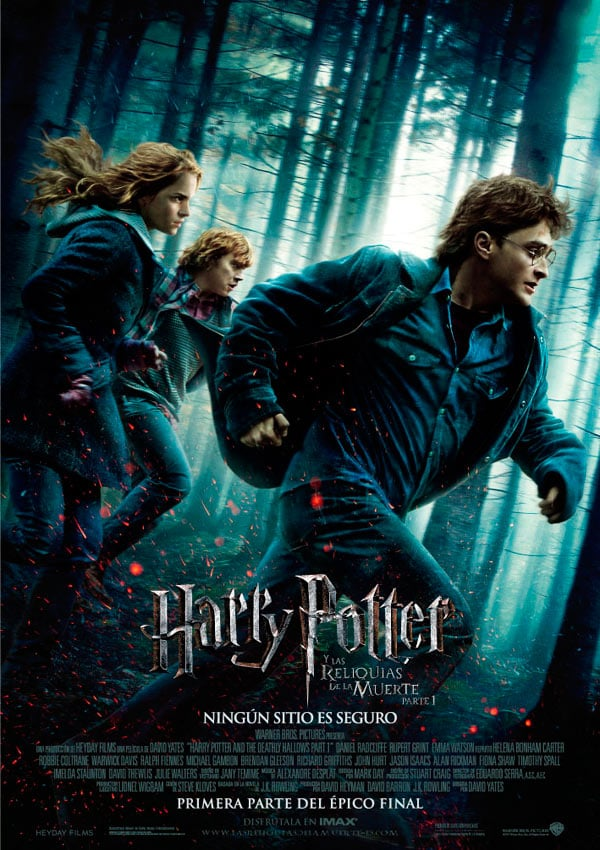
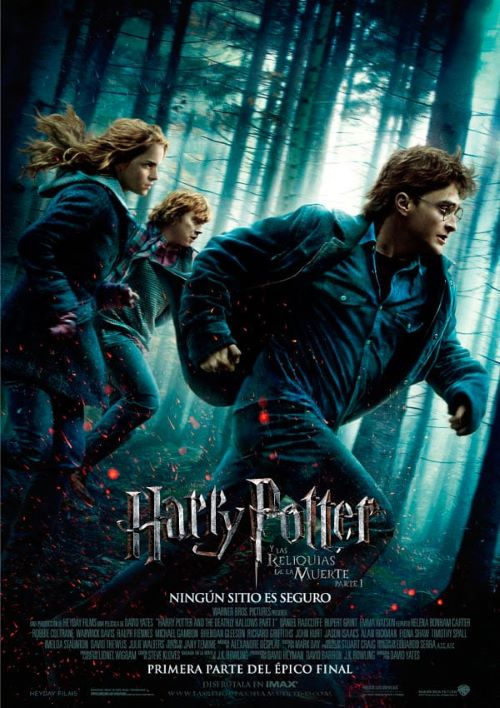
agregue SEO, corregi el tamaño de las imagenes y cambie de carpeta algunos archivos

diff --git a/pages/peliculas.html b/pages/peliculas.html
@@ -16,7 +16,7 @@
 <body>
     <header id="arriba">
         <h1>BIENVENIDOS A LA PÁGINA DE FANS DE HARRY POTTER</h1>
-        <audio class="m-3" src="../FOTOS/cancion.mp3" controls>canción</audio>
+        <audio class="m-3" src="../audio/cancion.mp3" controls>canción</audio>
         <nav class="navbar navbar-expand-lg text-center menu">
             <div class="container-fluid">
               <button class="navbar-toggler" type="button" data-bs-toggle="collapse" data-bs-target="#navbarNav" aria-controls="navbarNav" aria-expanded="false" aria-label="Toggle navigation">
@@ -56,19 +56,19 @@
                 <p>Duración: 152 minutos. Versión extendida: 159 minutos.</p>
             </div>
             <div class="pelicula2" data-aos="flip-down">
-                <img src="../FOTOS/pelicula2.webp" alt="pelicula2" class="pelicula"> 
+                <img src="../FOTOS/pelicula2.jpg" alt="pelicula2" class="pelicula"> 
                 <h2 class="my-4 border-bottom border-dark">HARRY POTTER Y LA CÁMARA SECRETA</h2>
                 <P>Año de estreno: 2002.</P>
                 <p>Duración: aproximadamente 164 minutos. Versión extendida: 174 minutos.</p>
             </div>
             <div class="pelicula3" data-aos="flip-right">
-                <img src="../FOTOS/pelicula3.webp" alt="pelicula3" class="pelicula">
+                <img src="../FOTOS/pelicula3.jpg" alt="pelicula3" class="pelicula">
                 <h2 class="my-4 border-bottom border-dark">HARRY POTTER Y EL PRISIONERO DE AZKABAN</h2>
                 <P>Año de estreno: 2004.</P>
                 <p>Duración: 141 minutos.</p> 
             </div>
             <div class="pelicula4" data-aos="flip-left">
-                <img src="../FOTOS/pelicula4.webp" alt="pelicula4" class="pelicula">
+                <img src="../FOTOS/pelicula4.jpg" alt="pelicula4" class="pelicula">
                 <h2 class="my-4 border-bottom border-dark">HARRY POTTER Y EL CALÍZ DE FUEGO</h2>
                 <p>Año de estreno: 2005.</p>
                 <p>Duración: 157 minutos.</p>
@@ -118,8 +118,10 @@
           </div>
     </main>
     <footer>
-        <a href="https://www.instagram.com/" target="_blank"><img src="../FOTOS/instagram.png" alt="instagram" class="redes"></a>
-        <a href="https://www.facebook.com/" target="_blank"><img src="../FOTOS/facebook.png" alt="facebook" class="redes"></a>
+      <div class="redes">
+        <a href="https://www.instagram.com/" target="_blank"><img src="../FOTOS/instagram.png" alt="instagram"></a>
+        <a href="https://www.facebook.com/" target="_blank"><img src="../FOTOS/facebook.png" alt="facebook"></a>
+      </div>
         <h3>
         <a href="#arriba">Subir</a>
         </h3>   

diff --git a/pages/videojuegos.html b/pages/videojuegos.html
@@ -16,7 +16,7 @@
 <body>
     <header id="arriba">
         <h1>BIENVENIDOS A LA PÁGINA DE FANS DE HARRY POTTER</h1>
-        <audio class="m-3" src="../FOTOS/cancion.mp3" controls>canción</audio>
+        <audio class="m-3" src="../audio/cancion.mp3" controls>canción</audio>
         <nav class="navbar navbar-expand-lg text-center menu">
             <div class="container-fluid">
               <button class="navbar-toggler" type="button" data-bs-toggle="collapse" data-bs-target="#navbarNav" aria-controls="navbarNav" aria-expanded="false" aria-label="Toggle navigation">
@@ -172,8 +172,10 @@
         </div>
     </main>
     <footer>
-      <a href="https://www.instagram.com/" target="_blank"><img src="../FOTOS/instagram.png" alt="instagram" class="redes"></a>
-      <a href="https://www.facebook.com/" target="_blank"><img src="../FOTOS/facebook.png" alt="facebook" class="redes"></a>
+      <div class="redes">
+        <a href="https://www.instagram.com/" target="_blank"><img src="../FOTOS/instagram.png" alt="instagram"></a>
+        <a href="https://www.facebook.com/" target="_blank"><img src="../FOTOS/facebook.png" alt="facebook"></a>
+      </div>
         <h3>
           <a href="https://vandal.elespanol.com/sagas/harry-potter" target="_blank">Fuente</a>
         </h3>

diff --git a/index.html b/index.html
@@ -15,7 +15,7 @@
 <body>
     <header id="arriba">
         <h1 class="titulo">BINVENIDOS A LA PÁGINA DE FANS DE HARRY POTTER</h1>
-        <audio class="m-3" src="./FOTOS/cancion.mp3" controls>canción</audio>
+        <audio class="m-3" src="./audio/cancion.mp3" controls>canción</audio>
         <nav class="navbar navbar-expand-lg text-center menu">
             <div class="container-fluid">
               <button class="navbar-toggler" type="button" data-bs-toggle="collapse" data-bs-target="#navbarNav" aria-controls="navbarNav" aria-expanded="false" aria-label="Toggle navigation">
@@ -71,8 +71,10 @@
           </div>
     </main>
     <footer>
-        <a href="https://www.instagram.com/" target="_blank"><img src="./FOTOS/instagram.png" alt="instagram" class="redes"></a>
-        <a href="https://www.facebook.com/" target="_blank"><img src="./FOTOS/facebook.png" alt="facebook" class="redes"></a>
+      <div class="redes">
+        <a href="https://www.instagram.com/" target="_blank"><img src="./FOTOS/instagram.png" alt="instagram"></a>
+        <a href="https://www.facebook.com/" target="_blank"><img src="./FOTOS/facebook.png" alt="facebook"></a>
+      </div>
         <h3 class="subir">
             <a href="#arriba">Subir</a>
         </h3>

diff --git a/pages/escenas.html b/pages/escenas.html
@@ -16,7 +16,7 @@
 <body>
 <header id="arriba">
     <h1>BIENVENIDOS A LA PÁGINA DE FANS DE HARRY POTTER</h1>
-    <audio class="m-3" src="../FOTOS/cancion.mp3" controls>cancion</audio>
+    <audio class="m-3" src="../audio/cancion.mp3" controls>cancion</audio>
     <nav class="navbar navbar-expand-lg text-center menu">
         <div class="container-fluid">
           <button class="navbar-toggler" type="button" data-bs-toggle="collapse" data-bs-target="#navbarNav" aria-controls="navbarNav" aria-expanded="false" aria-label="Toggle navigation">
@@ -84,8 +84,10 @@
         </div>        
     </main>
     <footer>
-        <a href="https://www.instagram.com/" target="_blank"><img src="../FOTOS/instagram.png" alt="instagram" class="redes"></a>
-        <a href="https://www.facebook.com/" target="_blank"><img src="../FOTOS/facebook.png" alt="facebook" class="redes"></a>
+        <div class="redes">
+            <a href="https://www.instagram.com/" target="_blank"><img src="../FOTOS/instagram.png" alt="instagram"></a>
+            <a href="https://www.facebook.com/" target="_blank"><img src="../FOTOS/facebook.png" alt="facebook"></a>
+        </div>
         <h3>
          <a href="#arriba">Subir</a>
         </h3>

diff --git a/pages/libros.html b/pages/libros.html
@@ -153,8 +153,10 @@
         </div>
     </main>
     <footer>
-        <a href="https://www.instagram.com/" target="_blank"><img src="../FOTOS/instagram.png" alt="instagram" class="redes"></a>
-        <a href="https://www.facebook.com/" target="_blank"><img src="../FOTOS/facebook.png" alt="facebook" class="redes"></a>
+        <div class="redes">
+            <a href="https://www.instagram.com/" target="_blank"><img src="../FOTOS/instagram.png" alt="instagram"></a>
+            <a href="https://www.facebook.com/" target="_blank"><img src="../FOTOS/facebook.png" alt="facebook"></a>
+        </div>
     <h3>
         <a href="#arriba">Subir</a>
     </h3>

diff --git a/css/estilo.css b/css/estilo.css
@@ -578,13 +578,19 @@ footer {
   text-align: center;
   background: linear-gradient(red, black, red);
 }
+footer .redes {
+  margin: 10px;
+  display: flex;
+  flex-direction: row;
+  justify-content: flex-end;
+}
+footer .redes img {
+  margin: 10px;
+  width: 50px;
+}
 footer a {
   color: white;
   text-decoration: none;
-}
-footer a .redes {
-  width: 50px;
-  margin: 10px;
 }
 
 @media screen and (max-width: 768px) {
@@ -656,7 +662,7 @@ footer a .redes {
 @media screen and (max-width: 320px) {
   .videojuegos {
     display: flex;
-    flex-direction: column;
+    flex-direction: row;
   }
   h2 {
     font-size: 15px;

diff --git a/scss/_footer.scss b/scss/_footer.scss
@@ -2,12 +2,19 @@ footer{
     padding: 20px;
     text-align: center;
     background: linear-gradient($rojo, $negro, $rojo);
+    .redes{
+        margin: 10px;
+        display: flex;
+        flex-direction: row;
+        justify-content: flex-end;
+
+        img{
+            margin: 10px;
+            width: 50px;
+        }
+    }
     a{
         color: $blanco;
         text-decoration: none;
-        .redes{
-            width: 50px;
-            margin: 10px;
-        }
     }
 }

diff --git a/scss/_media.scss b/scss/_media.scss
@@ -165,7 +165,7 @@
 @media screen and (max-width: 320px){
     .videojuegos{
         display: flex;
-        flex-direction: column;
+        flex-direction: row;
     }
     h2{
         font-size: 15px;
